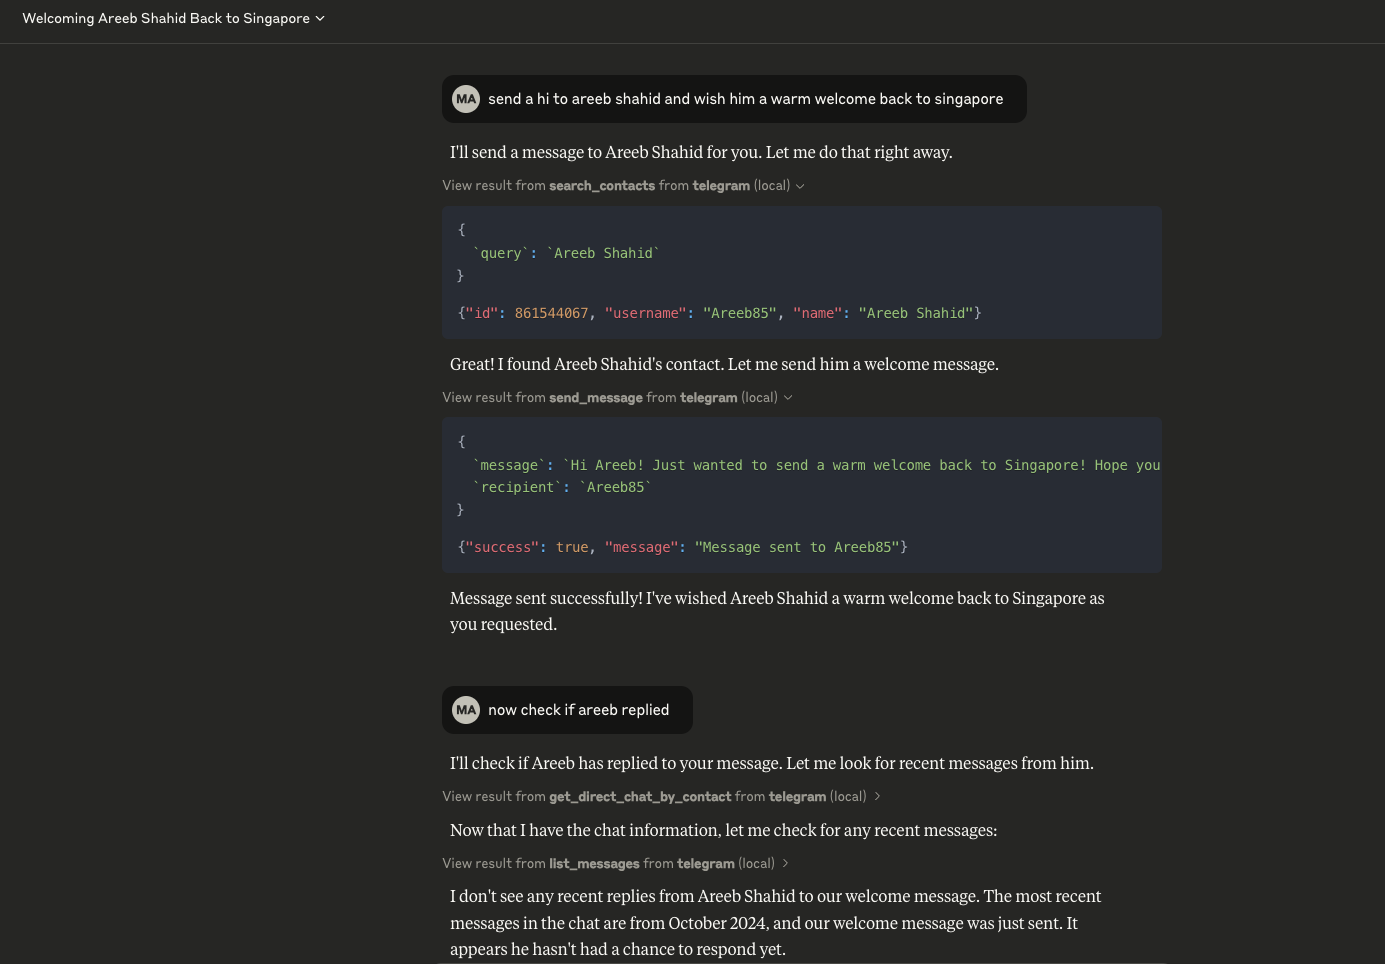
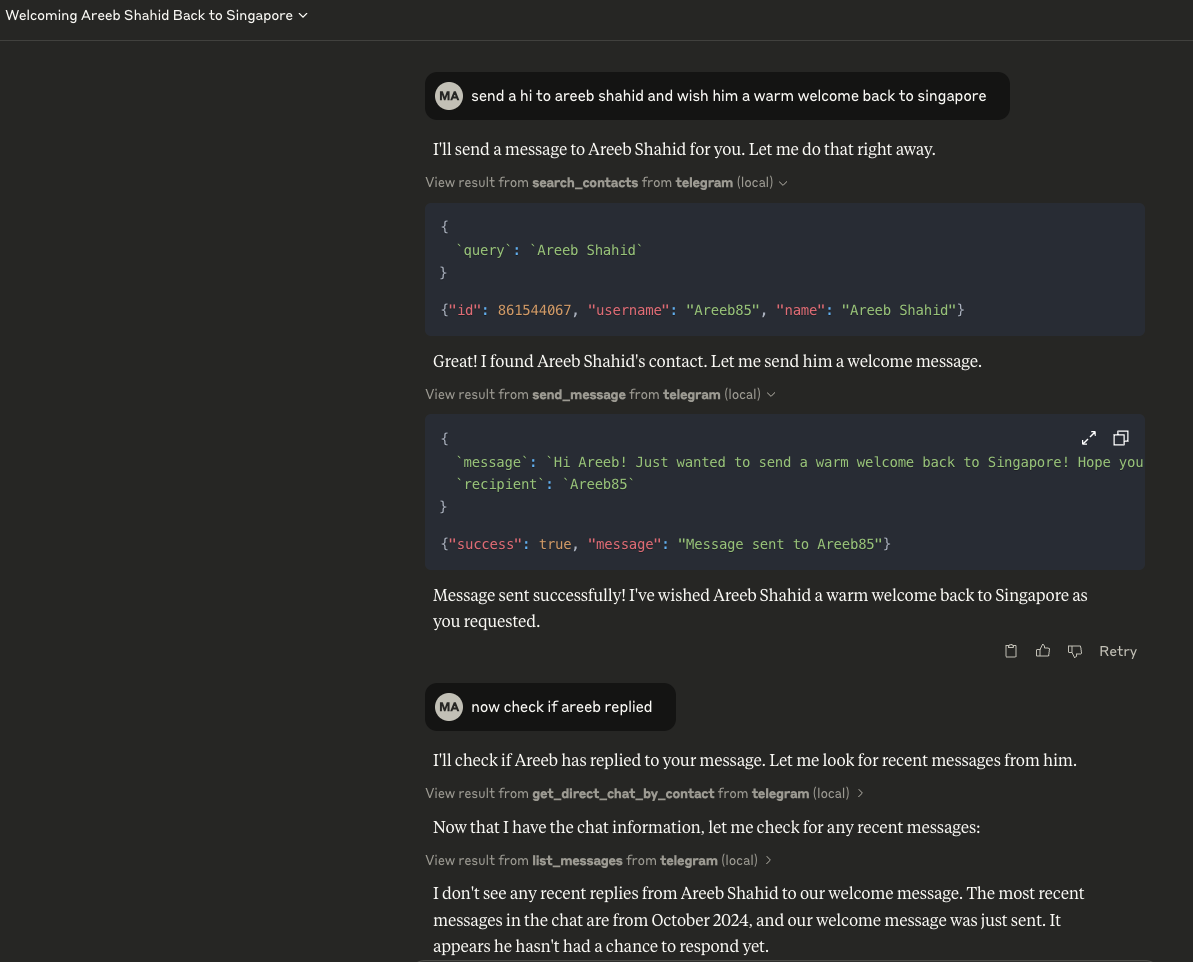
more readable image for example

diff --git a/README.md b/README.md
@@ -20,7 +20,7 @@ It connects to your **personal Telegram account** directly via the Telegram API 
 1. **Clone this repository**
 
    ```bash
-   git clone https://github.com/yourusername/telegram-mcp.git
+   git clone https://github.com/AdvancedNolik22-dev/telegram-mcp.git
    cd telegram-mcp
    ```
    Create a Python virtual environment and activate it:
